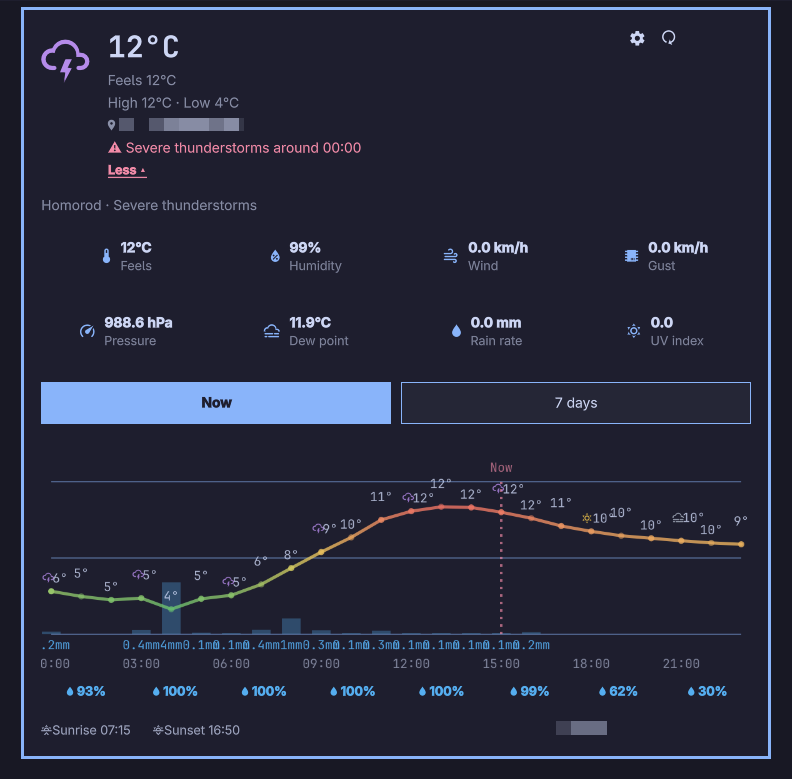
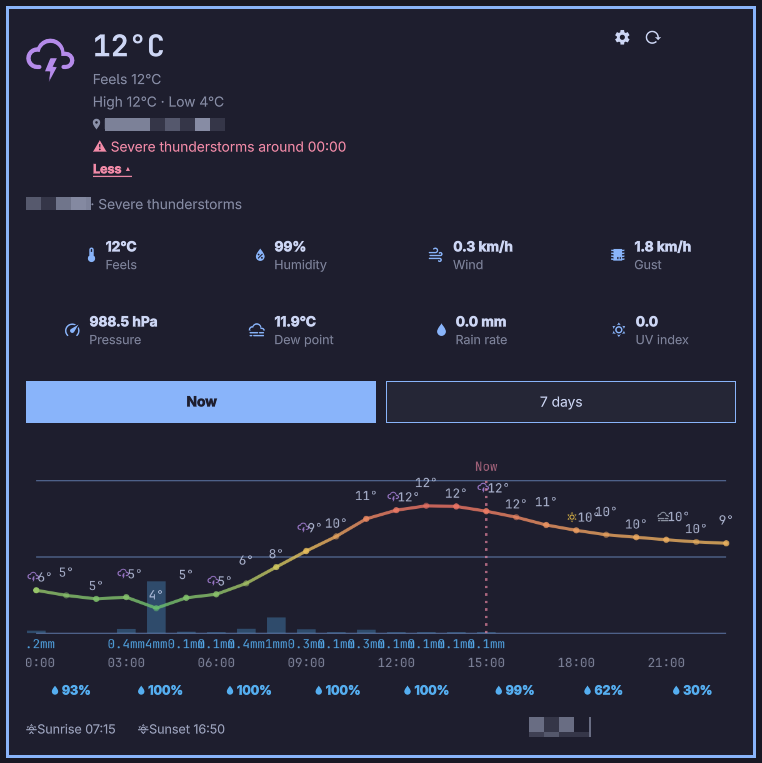
add main screenshot

diff --git a/omarchy_pws_weather/README.md b/omarchy_pws_weather/README.md
@@ -1,6 +1,10 @@
-# Omarchy PWS Weather
+<h1 align="center">Omarchy PWS Weather</h1>
 
-**Your personal weather station, right in the Omarchy bar.**
+<p align="center"><strong>Your personal weather station, right in the Omarchy bar.</strong></p>
+
+<p align="center">
+  <img src="../images/now_expanded.png" alt="Expanded current weather view showing station measurements and the hourly outlook">
+</p>
 
 Omarchy PWS Weather is designed primarily for **personal weather stations (PWS) registered with Weather Underground**. Connect a station ID and your Weather Underground / Weather.com API key to see the station's current measurements alongside an hourly outlook and a seven-day forecast.
 

diff --git a/README.md b/README.md
@@ -1,6 +1,10 @@
-# Omarchy PWS Weather
+<h1 align="center">Omarchy PWS Weather</h1>
 
-**Your personal weather station, right in the Omarchy bar.**
+<p align="center"><strong>Your personal weather station, right in the Omarchy bar.</strong></p>
+
+<p align="center">
+  <img src="images/now_expanded.png" alt="Expanded current weather view showing station measurements and the hourly outlook">
+</p>
 
 Omarchy PWS Weather is designed primarily for **personal weather stations (PWS) registered with Weather Underground**. Connect a station ID and your Weather Underground / Weather.com API key to see the station's current measurements alongside an hourly outlook and a seven-day forecast.
 
